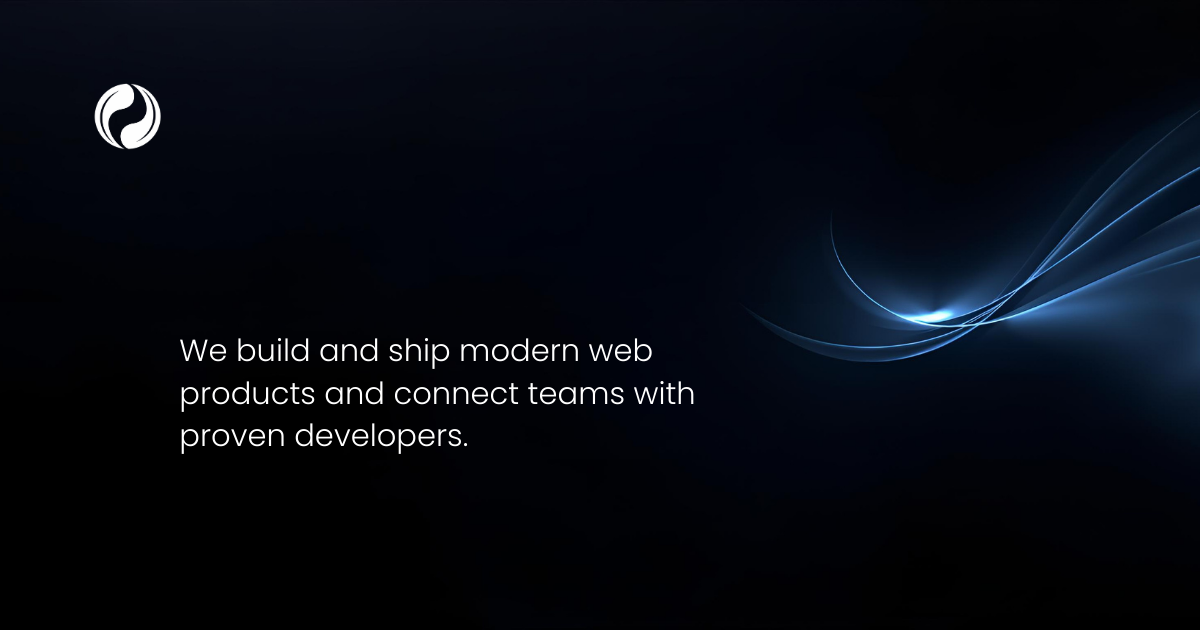
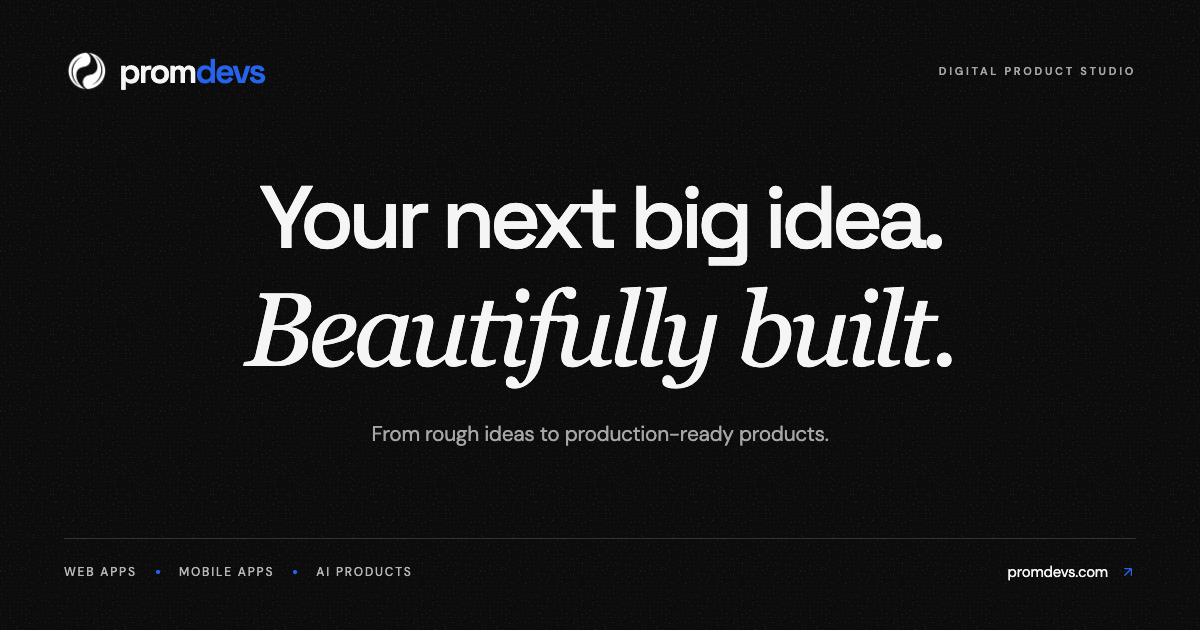
feat: enhance environment configuration and add secret scanning workflow

diff --git a/lib/email/resend.ts b/lib/email/resend.ts
@@ -1,3 +1,4 @@
+import "server-only";
 import { Resend } from "resend";
 
 export type ContactEmailInput = {
@@ -20,11 +21,11 @@ export async function sendContactEmail(payload: ContactEmailInput) {
   if (!apiKey || !toEmail) {
     console.info(
       "[TODO] Configure RESEND_API_KEY and CONTACT_TO_EMAIL. Contact payload:",
-      payload
+      payload,
     );
     return {
       ok: true,
-      fallback: true
+      fallback: true,
     } as const;
   }
 
@@ -35,7 +36,7 @@ export async function sendContactEmail(payload: ContactEmailInput) {
     to: to,
     replyTo: payload.email,
     subject: `[PromDevs Contact] ${payload.subject}`,
-    text: `Name: ${payload.name}\nEmail: ${payload.email}\n\nMessage:\n${payload.message}`
+    text: `Name: ${payload.name}\nEmail: ${payload.email}\n\nMessage:\n${payload.message}`,
   });
 
   if (result.error) {
@@ -44,6 +45,6 @@ export async function sendContactEmail(payload: ContactEmailInput) {
 
   return {
     ok: true,
-    fallback: false
+    fallback: false,
   } as const;
 }

diff --git a/db/client.ts b/db/client.ts
@@ -1,5 +1,6 @@
-import { drizzle } from 'drizzle-orm/neon-http';
-import { neon } from '@neondatabase/serverless';
+import "server-only";
+import { drizzle } from "drizzle-orm/neon-http";
+import { neon } from "@neondatabase/serverless";
 
 const sql = neon(process.env.DATABASE_URL!);
 export const db = drizzle(sql);

diff --git a/README.md b/README.md
@@ -46,6 +46,12 @@ Required for live email sending:
 Optional:
 
 - `CONTACT_FROM_EMAIL` (defaults to `onboarding@resend.dev`)
+- `CONTACT_TO_NAME` and `CONTACT_FROM_NAME` for email display names.
+
+Set `DATABASE_URL` in `.env` for the existing Neon/Drizzle project routes and
+database CLI commands. Next.js also loads `.env.local`, but the Drizzle CLI's
+`dotenv/config` reads `.env` by default. All of these values are server-only;
+never prefix credentials with `NEXT_PUBLIC_`.
 
 1. Start development server:
 
@@ -90,7 +96,7 @@ preferences and page content remains visible without JavaScript.
 
 ### Runtime and versions
 
-Use Node.js 24 LTS (see .nvmrc). Next.js 16.3.5, React 19.3.0, Tailwind CSS 4.3.3,
+Use Node.js 24 LTS (see .nvmrc). Next.js 16.3.8, React 19.3.0, Tailwind CSS 4.3.3,
 Lucide, Resend, Zod, and the other stable dependencies were updated against npm's stable tags.
 TypeScript stays on the newest 6.x release because typescript-eslint does not yet support 7.0.
 ESLint stays on the newest 9.x release because the plugins bundled with Next's config do not
@@ -112,11 +118,56 @@ Future backend integration can replace this data source independently of the pag
 
 ### Dependency audit
 
-At the time of the refresh, npm audit --omit=dev reports zero vulnerabilities. Four moderate
-advisories remain in the development-only drizzle-kit / esbuild dependency chain. npm's forced
-fix proposes a breaking downgrade of drizzle-kit; that downgrade was deliberately not applied.
+The October 2026 security check updated Next.js to 16.3.8, including the 16.3.6 security fix. The
+production dependency audit reports zero vulnerabilities. The full audit still
+reports 14 development-tooling advisories (8 high, 6 moderate), including
+glob-matching dependencies, Drizzle/esbuild, and CLI utilities. Several suggested
+fixes downgrade Next's ESLint config, shadcn, or drizzle-kit across major versions;
+those breaking changes were deliberately not applied. Review these before using
+development tools with untrusted input, and keep local development servers private.
 
 ### Analytics
 
 The existing GA4 measurement ID is retained. The old GoogleTagManager component was removed
 because its supplied ID was a G- measurement ID, not a GTM- container ID.
+
+### Secret protection
+
+Environment files and private-key formats are Git-ignored; `.env.example` contains
+only empty credentials and safe defaults. Database and email modules use
+`server-only` to prevent accidental imports into browser components.
+The Google Analytics measurement ID is intentionally public, not an API secret.
+
+The Secret scan GitHub workflow checks complete Git history on pushes and pull
+requests. It uses a pinned, checksum-verified Gitleaks binary with default rules
+plus a database-connection rule, and redacts detected values. No paid scanner
+integration is needed. Check scans locally with Gitleaks 8.30.1:
+
+```bash
+gitleaks git --log-opts="--all" --redact=100 --no-banner .
+```
+
+If a real credential is ever committed, revoke or rotate it first. Deleting the
+file or adding an ignore rule does not remove it from Git history, existing
+clones, or forks. Coordinate any subsequent history rewrite rather than
+force-pushing without agreement. Do not commit scan reports containing secrets.
+
+### Social preview image
+
+Open Graph and Twitter share the same 1200 x 630 PNG design, using the existing
+PromDevs logo, local fonts, monochrome stipple, and homepage headline. Both images
+have descriptive alt text and are discovered through Next.js file-based metadata.
+No image-generation request or external font service runs in production.
+
+To prepare the editable HTML composition:
+
+```bash
+node scripts/assets/prepare-social-card.mjs
+```
+
+Render the resulting `output/social/preview.html` in Chromium at 1200 x 630 and
+device scale factor 1 after fonts load, then export the same PNG to
+`app/opengraph-image.png` and `app/twitter-image.png`. The preview embeds local
+assets and has no remote dependencies. Georgia is used for the italic serif on
+the design machine, with Times New Roman as a fallback; the exported PNGs require
+no fonts on the deployment server. Generated previews are Git-ignored.
